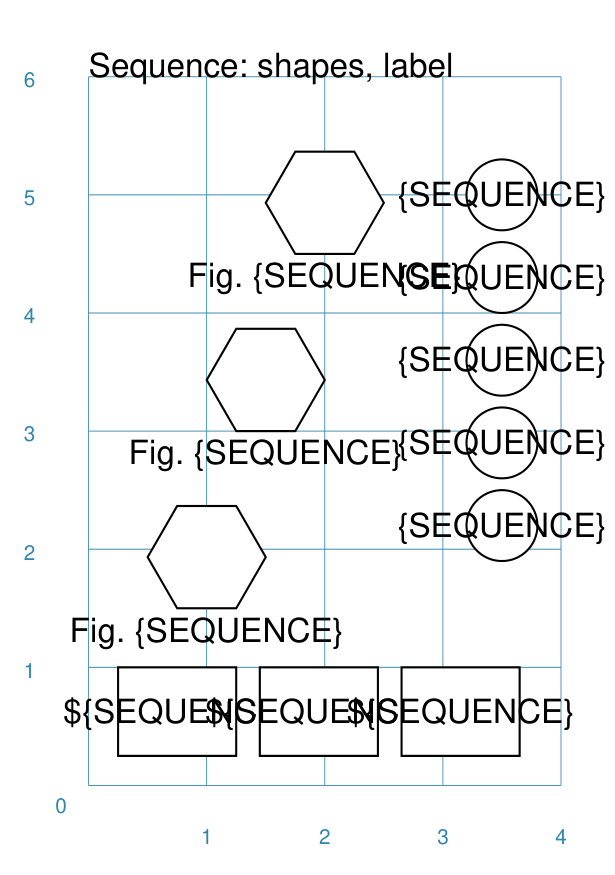
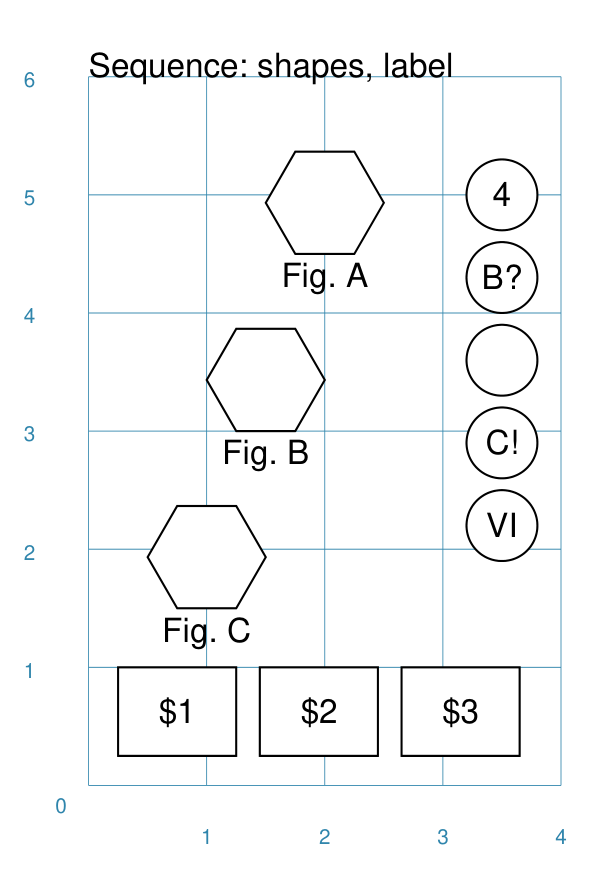
WIP on Repeat command. Update use of sequence in Text

diff --git a/examples/core/layouts/layouts_repeat.py b/examples/core/layouts/layouts_repeat.py
@@ -1,0 +1,61 @@
+# -*- coding: utf-8 -*-
+"""
+Repeat layout examples for pyprototypr
+
+Written by: Derek Hohls
+Created on: 19 December 2024
+"""
+from pyprototypr import *
+
+Create(filename="layouts_repeat.pdf",
+       paper=A8,
+       margin=0.75,
+       margin_right=0.2, margin_top=0.2,
+       font_size=10,
+       stroke_width=0.5)
+
+header = Common(x=0, y=6, font_size=7, align="left")
+marble = Circle(cx=1, cy=1, radius=0.25, fill=lime)
+
+Blueprint(stroke_width=0.5)
+Text(common=header, text="Repeat: cols&rows")
+Repeat(marble, cols=4, rows=5)
+PageBreak()
+
+Blueprint(stroke_width=0.5)
+Text(common=header, text="Repeat: cols&rows: offset")
+Repeat(marble, cols=4, rows=5, offset=1)
+PageBreak()
+
+Blueprint(stroke_width=0.5, subdivisions=4)
+Text(common=header, text="Repeat: offset: across&down")
+Repeat(marble, cols=4, rows=4, offset_across=0.75, offset_down=1.25)
+PageBreak()
+
+Blueprint(stroke_width=0.5)
+Text(common=header, text="Repeat: across (cols 2 & 4)")
+Repeat(marble, cols=4, rows=5, offset=1, across=(2, 4))
+PageBreak()
+
+Blueprint(stroke_width=0.5)
+Text(common=header, text="Repeat: down (rows 1,3,5)")
+Repeat(marble, cols=4, rows=5, offset=1, down=(1, 3, 5))
+PageBreak()
+
+Blueprint(stroke_width=0.5)
+Text(common=header, text="Repeat: across&down")
+Repeat(marble, cols=4, rows=5, offset=1, across=(2, 4), down=(1, 3, 5))
+PageBreak()
+
+# Save()
+Save(
+     output='png',
+     dpi=300,
+     directory="docs/images/layouts",
+     names=[
+        "repeat_basic",
+        "repeat_offset", "repeat_offset_acrossdown",
+        "repeat_across", "repeat_down", "repeat_acrossdown",
+
+     ]
+)

diff --git a/examples/boards/commercial/underwater_cities.py b/examples/boards/commercial/underwater_cities.py
@@ -95,7 +95,7 @@ special_grn = "#4A8D86"
 special_grn_rect = rectangle(
     y=9.5, x=34.5, width=5.5, height=8.5, fill_stroke=special_grn, rounding=0.5,
     transparency=80, label="S", label_size=164, label_stroke="#69A8B9")
-Repeat(special_grn_rect, cols=3, rows=2, offset_across=9.5, offset_down=7,)
+Repeat(special_grn_rect, cols=3, rows=2, offset_across=7, offset_down=9,)
 
 # Government Cards
 gov_blue = "#666D8A"
@@ -130,9 +130,9 @@ score_common = Common(
     label_size=21, label_stroke=white)
 score_base = circle(common=score_common, stroke="#11B6E4", fill="#008FCE")
 score_5 = circle(
-    common=score_common, stroke="#7BC9E6", fill="#3FA1BB", label="{count}")
+    common=score_common, stroke="#7BC9E6", fill="#3FA1BB", label="{{sequence}}")
 score_10 = circle(
-    common=score_common, stroke="#EEE544", fill="#B5CDB0", label="{count}")
+    common=score_common, stroke="#EEE544", fill="#B5CDB0", label="{{sequence}}")
 score_track = RectangularLocations(
     x=7.5, y=7.75, cols=32, rows=19, spacing=1.54,
     start="SE", direction="west", pattern="outer")
@@ -170,11 +170,11 @@ Circle(cx=11.5, cy=9.9, radius=0.5, fill_stroke=dimgray)
 Circle(cx=14, cy=9.9, radius=0.5, fill_stroke=darkorchid)
 
 Sequence(
-    text(x=10.4, y=18.4, font_size=32, stroke=orange, text="{SEQUENCE}."),
+    text(x=10.4, y=18.4, font_size=32, stroke=orange, text="{{sequence}}."),
     setting=(1,4,1,'number'),
     gap_y=-2.1)
 Sequence(
-    text(x=12.8, y=18.4, font_size=32, stroke=white, text="{SEQUENCE}."),
+    text(x=12.8, y=18.4, font_size=32, stroke=white, text="{{sequence}}."),
     setting=(1,4,1,'number'),
     gap_y=-2.1)
 

diff --git a/examples/core/layouts/layouts_sequence.py b/examples/core/layouts/layouts_sequence.py
@@ -20,29 +20,29 @@ txt = Common(x=0, y=6, font_size=8, align="left")
 Blueprint()
 Text(common=txt, text="Sequence: text; values")
 Sequence(
-    text(x=1, y=5.5),
+    text(text="{{sequence}}", x=1, y=5.5),
     setting=(10, 0, -2, 'number'),
     gap_x=0.5,
     )
 Sequence(
-    text(x=1, y=3.5),
+    text(text="{{sequence}}", x=1, y=3.5),
     setting=('h','b',-2,'letter'),
     gap_y=0.5,
     gap_x=0.5,
     )
 Sequence(
-    text(x=1, y=3),
+    text(text="{{sequence}}", x=1, y=3),
     setting=('B','H',2,'letter'),
     gap_y=-0.5,
     gap_x=0.5,
     )
 Sequence(
-    text(x=0.5, y=1),
+    text(text="{{sequence}}", x=0.5, y=1),
     setting=(5, 11, 1, 'roman'),
     gap_x=0.5,
     )
 Sequence(
-    text(x=0.5, y=0.25),
+    text(text="{{sequence}}", x=0.5, y=0.25),
     setting=(27, 57, 5, 'excel'),
     gap_x=0.5,
     )
@@ -52,17 +52,17 @@ PageBreak()
 Blueprint()
 Text(common=txt, text="Sequence: shapes, label")
 Sequence(
-    circle(cx=3.5, cy=5, radius=0.3, label="{SEQUENCE}"),
+    circle(cx=3.5, cy=5, radius=0.3, label="{{sequence}}"),
     setting=[4, 'B?', '', 'C!', 'VI'],
     gap_y=-0.7,
     )
 Sequence(
-    rectangle(x=0.25, y=0.25, height=0.75, width=1, label_size=8, label="${SEQUENCE}"),
+    rectangle(x=0.25, y=0.25, height=0.75, width=1, label_size=8, label="${{sequence}}"),
     setting=(1, 3, 1, 'number'),
     gap_x=1.2,
     )
 Sequence(
-    hexagon(x=0.5, y=1.5, radius=0.5, title_size=8, title="Fig. {SEQUENCE}"),
+    hexagon(x=0.5, y=1.5, radius=0.5, title_size=8, title="Fig. {{sequence}}"),
     setting=('C', 'A', -1),
     gap_y=1.5,
     gap_x=0.5,

diff --git a/pyprototypr/layouts.py b/pyprototypr/layouts.py
@@ -200,7 +200,8 @@ class SequenceShape(BaseShape):
 
         for key, item in enumerate(self.setting_list):
             _ID = ID if ID is not None else self.shape_id
-            kwargs['locale'] = Locale(sequence=item)
+            _locale = Locale(sequence=item)
+            kwargs['locale'] = _locale._asdict()
             # tools.feedback(f'*   @Seqnc@ {self.gap_x=}, {self.gap_y=}')
             off_x = _off_x + key * self.gap_x
             off_y = _off_y + key * self.gap_y
@@ -289,9 +290,9 @@ class RepeatShape(BaseShape):
             for row in range(self.rows):
                 if ((col + 1) in self.across) and ((row + 1) in self.down):
                     off_x = col * self.width + col * (
-                        self.offset_across - (self.margin_left or self.margin))
+                        self.offset_down - (self.margin_left or self.margin))
                     off_y = row * self.height + row * (
-                        self.offset_down - (self.margin_bottom or self.margin))
+                        self.offset_across - (self.margin_bottom or self.margin))
                     flat_elements = tools.flatten(self._object)
                     log.debug("flat_eles:%s", flat_elements)
                     for flat_ele in flat_elements:

diff --git a/pyprototypr/shapes.py b/pyprototypr/shapes.py
@@ -3366,17 +3366,15 @@ class TextShape(BaseShape):
         rotation = kwargs.get('rotation', self.rotation)
         # ---- set canvas
         self.set_canvas_props(index=ID)
-        # ---- overrides for text value
+        # ---- overrides for self.text / text value
         _locale = kwargs.get('locale', None)
-        # tools.feedback(f'*** {_locale=} {self.text=}')
-        if self.text == '' or self.text is None:
-            if _locale:
-                self.text = f'{_locale.sequence}'
+        if _locale:
+            self.text = tools.eval_template(self.text, _locale)
         _text = self.textify(ID)
+        # tools.feedback(f'*** {_locale=} {self.text=} {_text}')
         if _text is None:
             return
         _text = str(_text)  # card data could be numeric
-        # tools.feedback(f'*** {_locale=} {self.text=} {_text}')
         if '\\u' in _text:
             _text = codecs.decode(_text, 'unicode_escape')
         # ---- text style

diff --git a/pyprototypr/utils/tools.py b/pyprototypr/utils/tools.py
@@ -741,7 +741,7 @@ def base_fonts():
             #    _font['name'], _font['file'], err)
 
 
-def eval_template(source: str, data: dict = None):
+def eval_template(source: str, data: dict = None, label: str = ''):
     """Process data dict via jinja2 template in source.
 
     Doc Test:
@@ -764,6 +764,10 @@ def eval_template(source: str, data: dict = None):
         template = environment.from_string(str(source))
         custom_value = template.render(data)
         return custom_value
+    except jinja2.exceptions.TemplateSyntaxError:
+        feedback(
+            f'Unable to create the text or value - check the grammar for "{source}"',
+            True)
     except (ValueError, jinja2.exceptions.UndefinedError):
         feedback(
             f'Unable to process "{source}" data with this template', True)

diff --git a/docs/card_decks.rst b/docs/card_decks.rst
@@ -252,6 +252,10 @@ The ``Data`` command uses different properties to reference these sources:
 - **images** - refers to the directory in which the images are located; if
   a full path is not given, its assumed to be directly under the one in which
   the script is located
+- **images_list** - is used in conjunction with *images* to provide a list of
+  file extensions which filter which type of files will be loaded from the
+  directory e.g. ``.png`` or ``.jpg``; this is important to set if the
+  directory contains files of a type that are not, or cannot be, used
 - **data_list** refers to the name assigned to the "list of lists" being used
 
 .. HINT::
@@ -284,7 +288,8 @@ This example shows how data is sourced from an Excel file:
 Data Example #3
 ---------------
 
-This example shows how data is sourced from a Matrix:
+This example shows how data is sourced from a Matrix; in this case the possible
+combinations for a standard deck of playing cards:
 
     .. code:: python
 
@@ -296,6 +301,10 @@ This example shows how data is sourced from a Matrix:
                 ['K','Q','J','10','9','8','7','6','5','4','3','2','A'],
             ])
         Data(matrix=combos)
+
+The dataset will contain a combination of every item in the first list of
+*data* - representing the **SUIT** - with every item in the second list of
+*data* - representing the **VALUE**; so 4 by 13 which is 52 dataset items.
 
 For more detail on these properties see `The Matrix Command`_.
 
@@ -323,6 +332,9 @@ This example shows how data is sourced from a "list of lists":
            [3, "Aragorn", 88, "Human"],
        ]
        Data(data_list=lotr)
+
+See below under the `T(emplate) command`_ for an example how this data could
+be used.
 
 
 The Matrix Command
@@ -356,10 +368,10 @@ Countersheet and Counter Commands
 =================================
 `↑ <table-of-contents_>`_
 
-These commands are effectiively "wrappers" around the Deck and Card commands
+These commands are effectively "wrappers" around the Deck and Card commands
 (respectively) so all of the properties and abilities of those commands can
 be used via these instead.  The only real difference is that the default size
-of a Counter is 1" square (2.44 x 2.54 cm).
+of a Counter is 1" square (2.54 cm x 2.54 cm).
 
 The aim of having these commands is to allow the script to be more informative
 as to its purpose and use.
@@ -377,7 +389,24 @@ reduced repetition when designing a deck of cards.
 group command
 -------------
 
-This command ...
+This command provides a "shortcut" way to reference a stack of shapes that
+all need to be drawn together. Add the shapes to a set - comma-separated
+names wrapped in curved brackets (``(..., ...)``) - and assign the set to a
+name.  The shapes are drawn in the order listed.
+
+For example:
+
+    .. code:: python
+
+      lin1 = line(x=0.8, x1=5.6, y=7.1, y1=8.4)
+      rct1 = rectangle(x=0.7, y=7.0, width=5, height=1.5)
+      stack = group(rct1, lin1)
+
+When this stack is assigned to a card and then drawn, the Rectangle will be
+drawn first, followed by the Line.
+
+This command is somewhat similar to ``Common()``, which provides a way to
+group commonly used properties.
 
 
 T(emplate) command
@@ -389,8 +418,8 @@ value for that card.
 To use this command, simply enclose the name of the data column in curly
 brackets - ``"{{...}}"``.
 
-This example shows how the text for the standard playing cards is derived
-from the **VALUE** column:
+This example shows how the card values in the top-left and lower-right corners
+for standard playing cards is derived from the **VALUE** column:
 
     .. code:: python
 
@@ -463,6 +492,7 @@ will produce no changes in the cards as there is no **nature** column or
 
 L(ookup) command
 ----------------
+
 This command ...
 
 

diff --git a/README.md b/README.md
@@ -121,8 +121,7 @@ current / potential areas of work or development that have been identified.
     * [x] hexagon
     * [x] equilateral triangle
     * [x] conditional for rounded rectangle
-* [x] Layout: virtual grids for putting shapes into locations in different
-      patterns
+* [x] Layout: virtual grids for putting shapes into locations in different patterns
 * [x] Rotation:
     * [x] text along a line
     * [x] shape labels (at centre of shape)
@@ -145,6 +144,9 @@ current / potential areas of work or development that have been identified.
 * [ ] 18xx board: show a basic map with tracks, towns, cities and off-map areas
 
 ## Acknowledgements
+
+> *The world is full of power and energy and a person can go far by just
+> skimming off a tiny bit of it.* "Snow Crash", Neal Stephenson.
 
 As always, with Python, you are building "on the shoulders of giants".
 In this case, the

diff --git a/docs/examples/cards.rst b/docs/examples/cards.rst
@@ -113,6 +113,7 @@ Screenshot  .. image:: images/cards/cards_matrix.png
                :width: 90%
 =========== ==================================================================
 
+
 .. _standard-playing-cards:
 
 Standard Playing Cards
